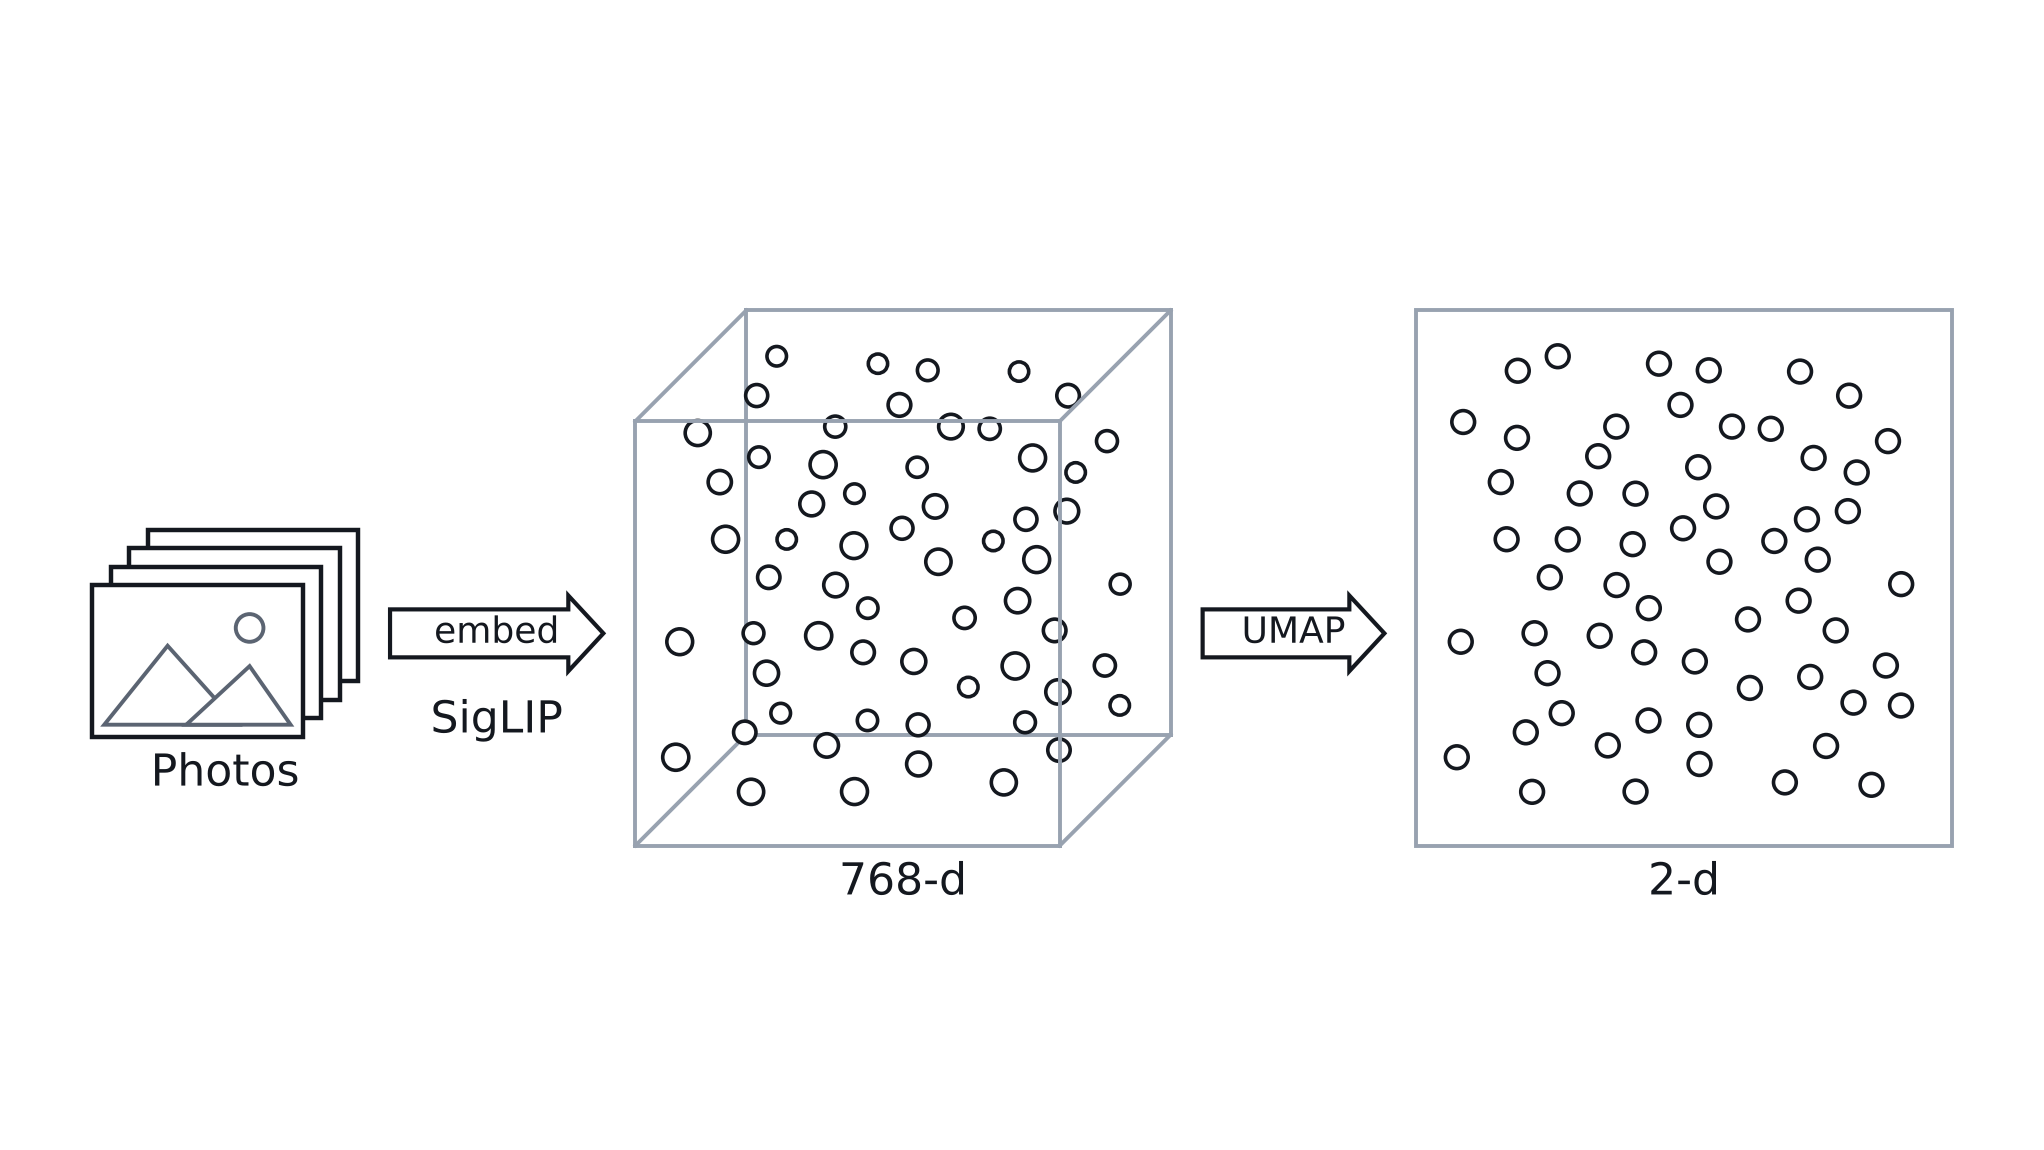
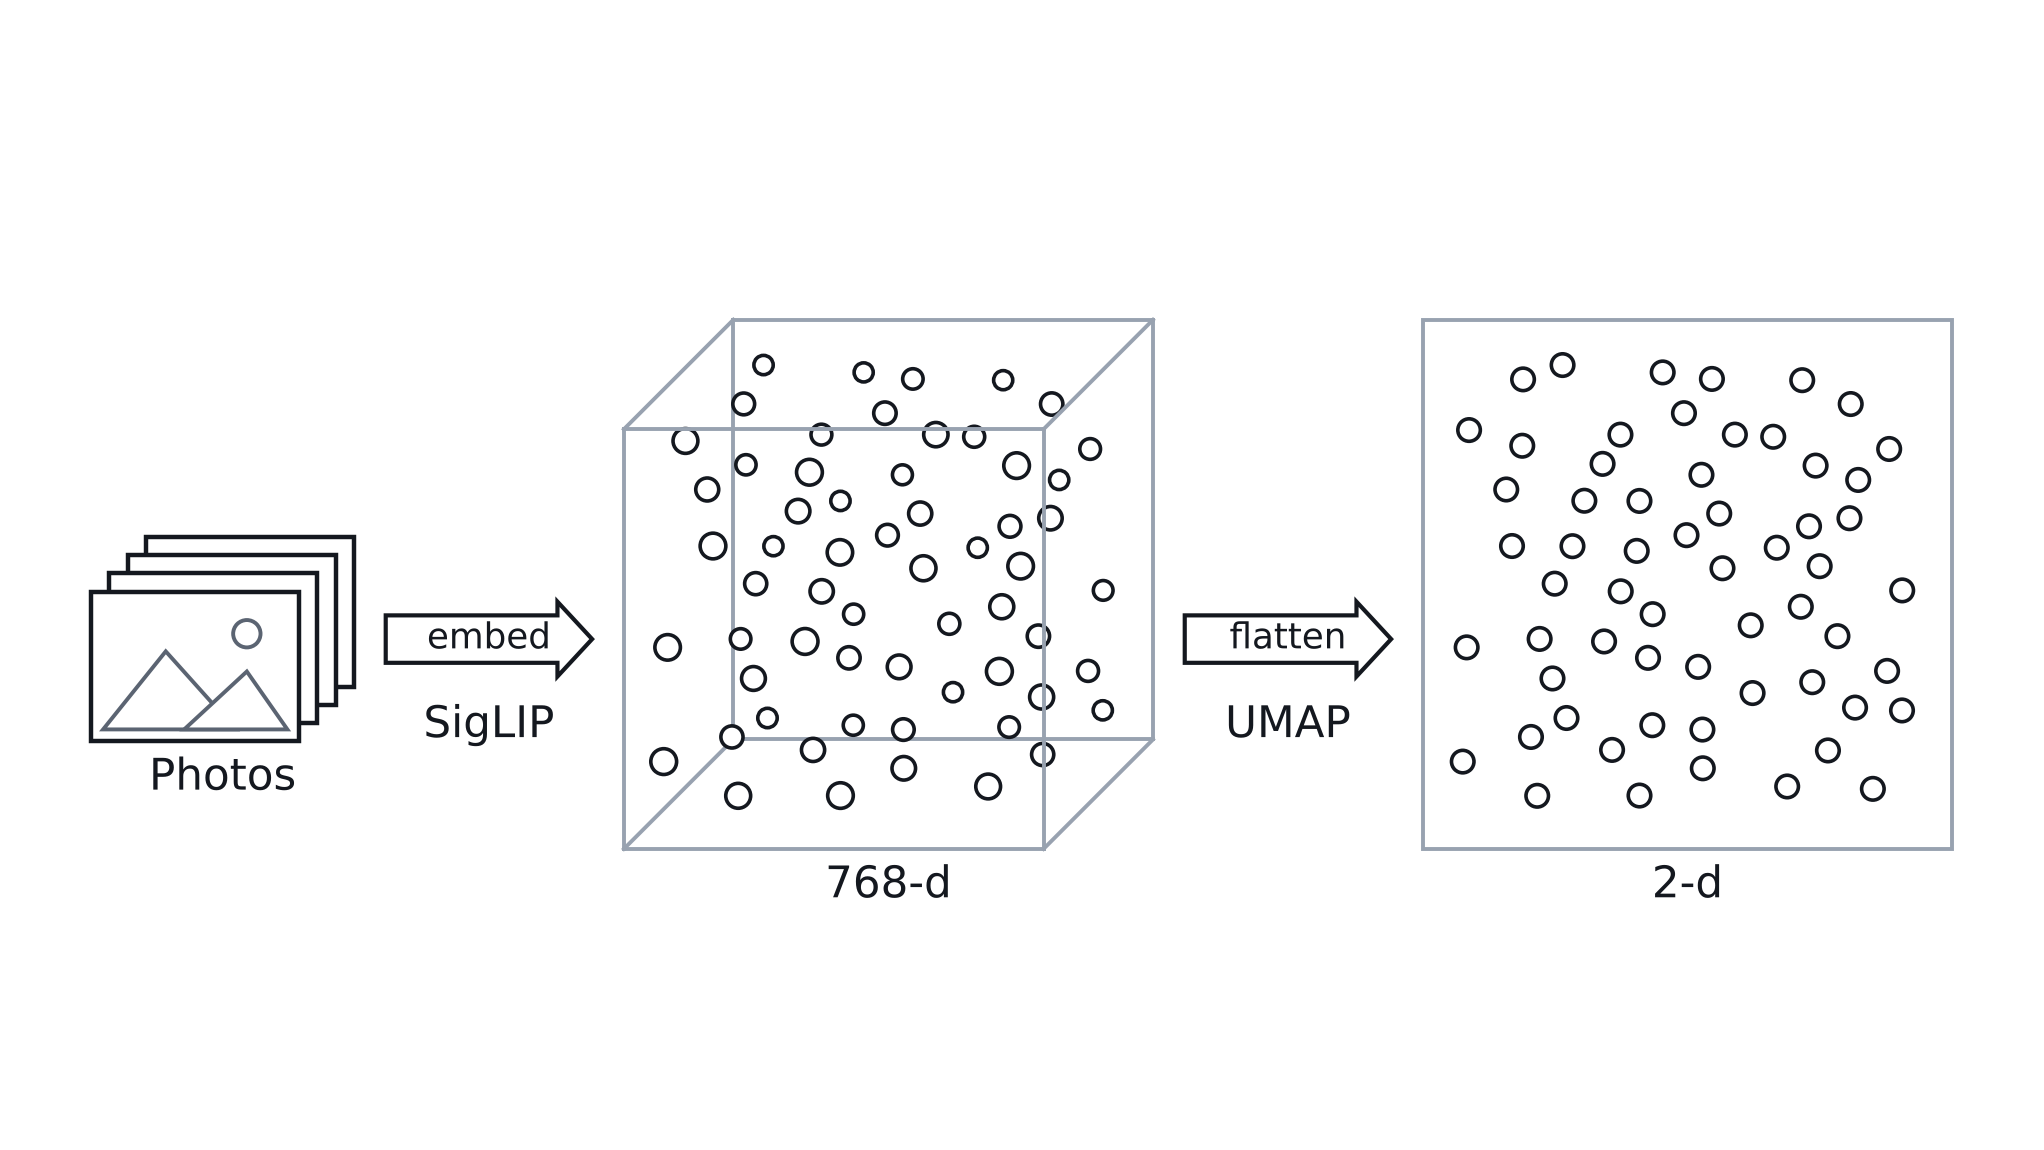
slides: Squaring the Cube's second arrow says flatten, labelled UMAP (#5132)
As the first arrow says embed over SigLIP: the arrow names the step and the
label names what does it (owner). Both arrows now share one length.

Claude-Session: https://claude.ai/code/session_0165HJKSieM6ooCBfgAquuj8

Changed region(s): [[0.0308, 0.2435, 0.9555, 0.7913], [0.7089, 0.7304, 0.9555, 0.7913], [0.9247, 0.487, 0.9555, 0.5174]]

diff --git a/slides/figs/src/make-intro-figs.py b/slides/figs/src/make-intro-figs.py
@@ -1946,13 +1946,14 @@ def _embed_flow_stage(stage: int) -> plt.Figure:
 # Squaring the Cube — UMAP flattens the cube into the map Browse draws (#5132)
 # ──────────────────────────────────────────────────────────────────────────────
 
-#: Embed-time Stories' second page, with a second arrow out of the cube: UMAP,
-#: into a flat square holding the same dots in the same pattern (owner, #5132). Three objects and two
-#: arrows do not fit across the slide at Embed-time Stories' scale, so the
-#: drawing is that one at `UMAP_SCALE` of its size, type and all: the canvas
-#: spans more units, and every point size is scaled to match (23px for the word
-#: in an arrow, over the type floor).
-UMAP_SCALE = 0.722
+#: Embed-time Stories' second page, with a second arrow out of the cube,
+#: "flatten", by UMAP, into a flat square holding the same dots in the same
+#: pattern (owner, #5132). Three objects and two arrows do not fit across the
+#: slide at Embed-time Stories' scale, so the drawing is that one at
+#: `UMAP_SCALE` of its size, type and all: the canvas spans more units, and every
+#: point size is scaled to match (22px for the word in an arrow, over the type
+#: floor).
+UMAP_SCALE = 0.714
 UMAP_CANVAS = (CANVAS[0] / UMAP_SCALE, CANVAS[1] / UMAP_SCALE)
 #: The row's vertical centre, the left margin, and the flat square's side: the
 #: whole cube's, front face and depth together, so the square is the whole cube
@@ -1961,9 +1962,10 @@ UMAP_CANVAS = (CANVAS[0] / UMAP_SCALE, CANVAS[1] / UMAP_SCALE)
 UMAP_ROW_Y = 5.6
 UMAP_LEFT = 1.0
 UMAP_SQUARE = CUBE_SIDE + CUBE_DEPTH
-#: The word inside the second arrow: the method's name, which is what the room
-#: will meet again under Browse.
-UMAP_WORD = "UMAP"
+#: The second arrow says what it does and is labelled with what does it, as the
+#: first says "embed" over "SigLIP" (owner, #5132).
+FLATTEN_WORD = "flatten"
+FLATTEN_BY = "UMAP"
 UMAP_STAGES = 2
 
 
@@ -2048,13 +2050,13 @@ def _umap_flow_stage(stage: int) -> plt.Figure:
     stack_w = CARD_W + (CARDS - 1) * CARD_STEP
     stack_h = CARD_H + (CARDS - 1) * CARD_STEP
     cube_w = CUBE_SIDE + CUBE_DEPTH
-    embed_len = _umap_arrow_len(EMBED_WORD) + 0.25
-    umap_len = _umap_arrow_len(UMAP_WORD) + 0.13
+    # Both arrows one length, the longer word's, so the two steps read as alike.
+    arrow_len = max(_umap_arrow_len(word) for word in (EMBED_WORD, FLATTEN_WORD)) + 0.2
     stack_x = UMAP_LEFT
     embed_x0 = stack_x + stack_w + FLOW_GAP
-    cube_x = embed_x0 + embed_len + FLOW_GAP
-    umap_x0 = cube_x + cube_w + FLOW_GAP
-    square_x = umap_x0 + umap_len + FLOW_GAP
+    cube_x = embed_x0 + arrow_len + FLOW_GAP
+    flatten_x0 = cube_x + cube_w + FLOW_GAP
+    square_x = flatten_x0 + arrow_len + FLOW_GAP
     assert square_x + UMAP_SQUARE <= UMAP_CANVAS[0] - 0.5, "the square runs off the slide"
     y = UMAP_ROW_Y
     cube_y = y - CUBE_SIDE / 2
@@ -2064,16 +2066,16 @@ def _umap_flow_stage(stage: int) -> plt.Figure:
     def name(x: float, bottom: float, text: str) -> None:
         ax.text(x, bottom - NAME_DROP, text, ha="center", va="baseline", fontsize=name_pt, color=INK, zorder=4)
 
-    def arrow(x0: float, length: float, word: str) -> None:
-        _block_arrow(ax, (x0, y), (x0 + length, y), word)
+    def arrow(x0: float, word: str, by: str) -> None:
+        """A block arrow with *word* in it and what does that, *by*, under it."""
+        _block_arrow(ax, (x0, y), (x0 + arrow_len, y), word)
         # `_block_arrow` sets its word at Embed-time Stories' size; this canvas draws everything smaller.
         ax.texts[-1].set_fontsize(FLOW_ARROW_PT * UMAP_SCALE)
+        ax.text(x0 + arrow_len / 2, y - 0.95, by, ha="center", va="center", fontsize=name_pt, color=INK, zorder=4)
 
     _photo_stack(ax, stack_x, y - stack_h / 2)
     name(stack_x + stack_w / 2, y - stack_h / 2, "Photos")
-    arrow(embed_x0, embed_len, EMBED_WORD)
-    ax.text(embed_x0 + embed_len / 2, y - 0.95, "SigLIP", ha="center", va="center", fontsize=name_pt, color=INK,
-            zorder=4)  # fmt: skip
+    arrow(embed_x0, EMBED_WORD, "SigLIP")
     _wire_cube(ax, cube_x, cube_y)
     for point in _flow_field_3d():
         dx, dy = _cube_project(point)
@@ -2081,7 +2083,7 @@ def _umap_flow_stage(stage: int) -> plt.Figure:
     name(cube_x + cube_w / 2, cube_y, "768-d")
 
     if stage >= 2:
-        arrow(umap_x0, umap_len, UMAP_WORD)
+        arrow(flatten_x0, FLATTEN_WORD, FLATTEN_BY)
         square_y = cube_y
         ax.add_patch(plt.Rectangle((square_x, square_y), UMAP_SQUARE, UMAP_SQUARE, facecolor="none", edgecolor=WIRE,
                                    linewidth=1.4, zorder=2))  # fmt: skip
